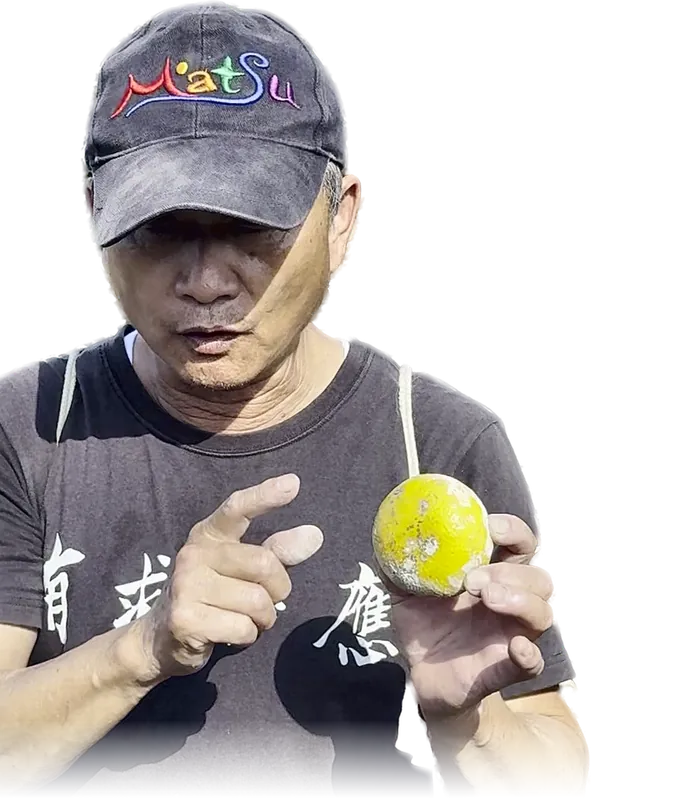
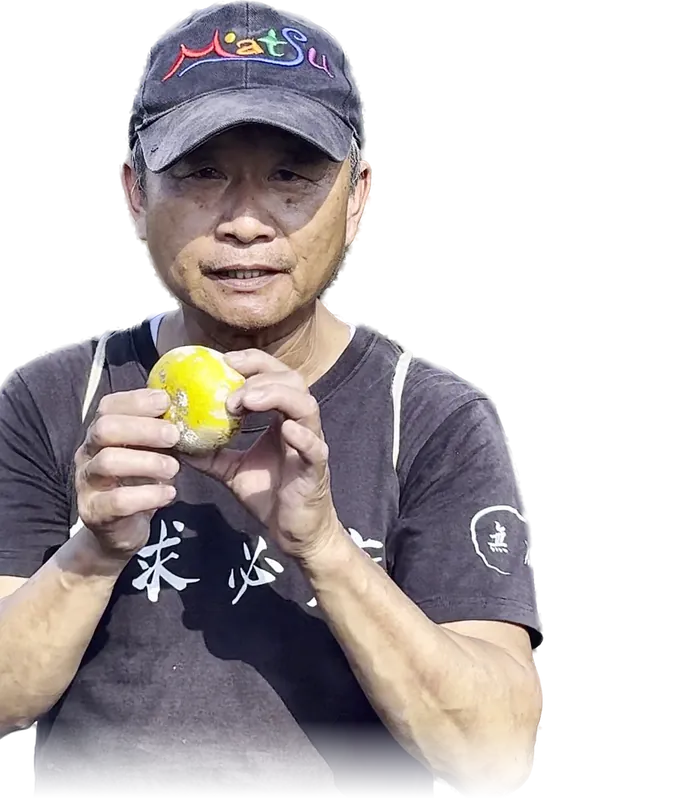
志永哥拿水果動作換成臉朝前、雙手捧柑橘的畫面（IMG_6354 7.1 秒）

diff --git a/sw.js b/sw.js
@@ -1,6 +1,6 @@
 // TempleGo 離線快取
 // ⚠ 新增或改名圖片時：把路徑加進 PRECACHE，並把 VERSION 加 1，遊客手機才會更新快取
-const VERSION = "v33";
+const VERSION = "v34";
 const CACHE = `templego-${VERSION}`;
 const FONT_CACHE = "templego-fonts";
 
